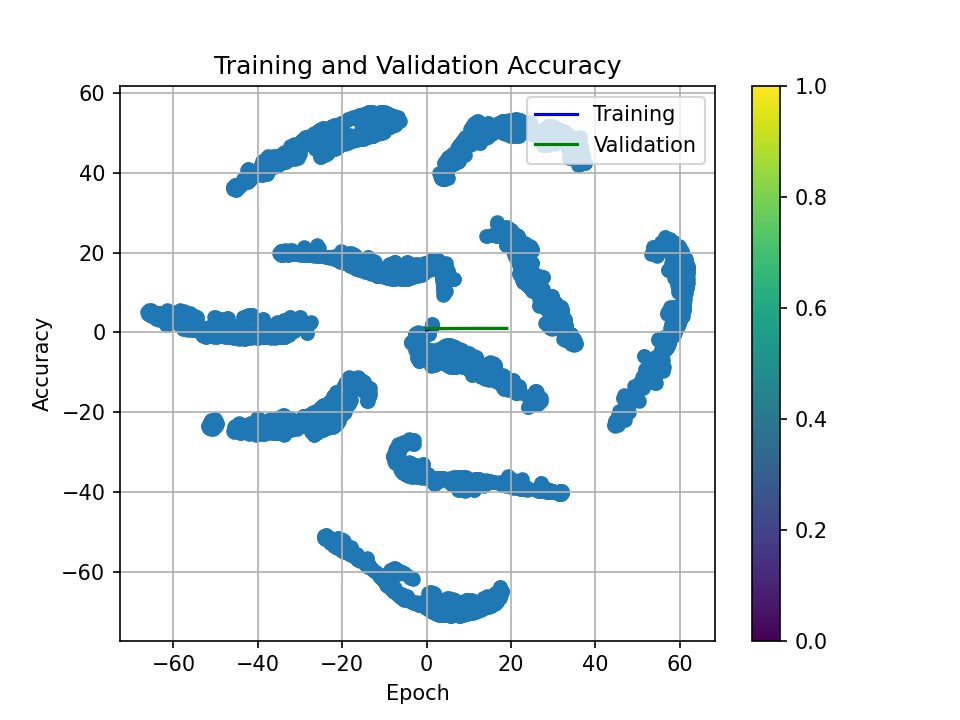
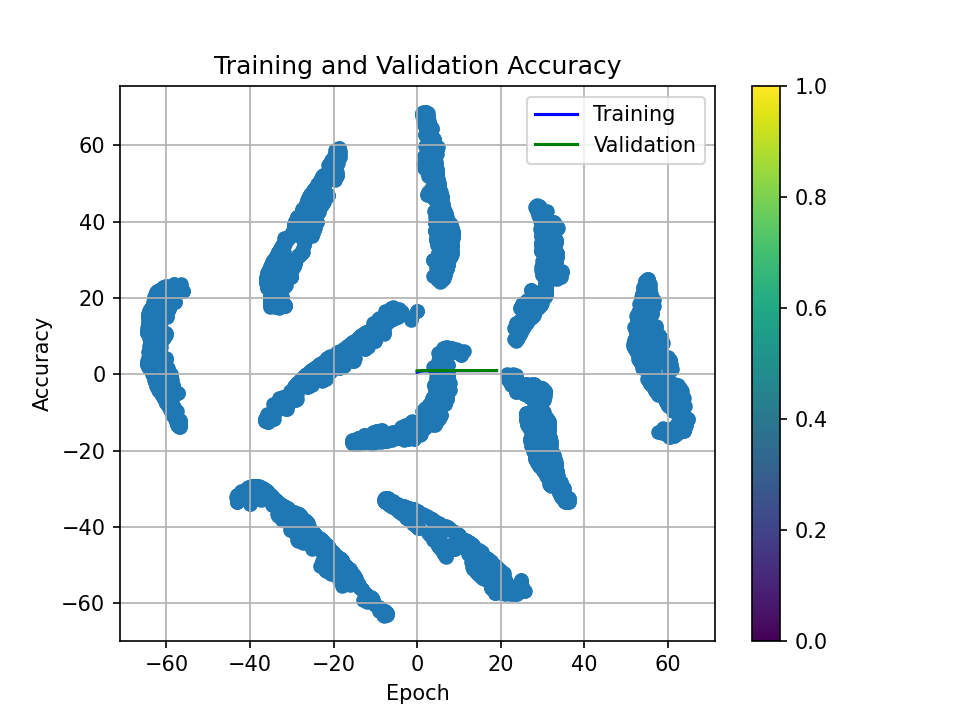
Determining pseudo_labels, cluster_to_class after training with embedding clissifier on seedset.

diff --git a/app/src/helpers/clustering.py b/app/src/helpers/clustering.py
@@ -2,13 +2,14 @@ import numpy as np
 import matplotlib.pyplot as plt
 
 from sklearn.cluster import KMeans
+from sklearn.linear_model import LogisticRegression
 from sklearn.manifold import TSNE
-
+from typing import Tuple, Dict
 
 def get_kmeans_pseudo_labels(
     embeddings: np.ndarray,
     n_clusters:int = 10,
-) -> np.ndarray:
+) -> Tuple[np.ndarray, KMeans]:
     """
     Applies KMeans algorith to the embeddings to get the cluster-labels.
             Args:
@@ -19,13 +20,47 @@ def get_kmeans_pseudo_labels(
             Returns:
                 pseudo-labels:
                     Cluster labels array.
+                kmeans:
+                    KMEAN adjusted model with cluster_centers attributes
     """
     kmeans = KMeans(
         n_clusters=n_clusters,
         random_state=42,
         n_init=10
         )
-    return kmeans.fit_predict(embeddings)
+    pseudo_labels = kmeans.fit_predict(embeddings)
+    return pseudo_labels, kmeans
+
+
+def get_cluster_class_from_logistic_regression(
+    seed_embeddings:np.ndarray,
+    seed_labels:np.ndarray,
+    cluster_centers:np.ndarray,
+) -> np.ndarray:
+    """
+    Assigning to each center cluster to a class using the LogisticRegresion trained over a seedset.
+        1. Train embedding classifier on seed set
+        2. Predict class for each cluster center
+        
+        Args:
+            seed_embeddings:
+                Embeddings matrix of seedset
+            seed_labels:
+                seed true labels from seedset
+            cluster_centers:
+                Matrix of cluster centers
+        Returns:
+            cluster_classes:
+                array with predicted class for cluster_center
+    """
+    clf = LogisticRegression(
+        max_iter=1000, 
+        multi_class='multinomial',
+        solver='lbfgs'
+        )
+    clf.fit(seed_embeddings, seed_labels)
+
+    return clf.predict(cluster_centers)
 
     
 def get_sample_visualization(
@@ -36,6 +71,17 @@ def get_sample_visualization(
 ):
     """
     Visualization of a 2d-embeddings with TSNE, coloured by label. 
+            Args:
+                embeddings:
+                    Feature matrix
+                labels:
+                    label array
+                n_clusters:
+                    number of clusters
+                sample_size:
+                    sample size
+            Returns:
+                a saved figure in `app/output/kmeans_labels_visualize.png`
     """
     
     if embeddings.shape[0] > sample_size:
@@ -91,9 +137,8 @@ def get_kmeans_labels_and_visualize(
             Returns:
                 pseudo-labels:
                     Cluster labels array.
-                    
     """
-    pseudo_labels = get_kmeans_pseudo_labels(
+    pseudo_labels, _ = get_kmeans_pseudo_labels(
         embeddings,
         n_clusters,
     )
@@ -106,3 +151,55 @@ def get_kmeans_labels_and_visualize(
         )
     return pseudo_labels
 
+
+def assign_initial_labels_from_logistic_regression(
+    train_embeddings:np.ndarray,
+    seed_embeddings:np.ndarray,
+    seed_labels:int,
+    n_clusters:int = 10
+    ) -> Tuple[np.ndarray, Dict[int, int]]:
+    """
+    Cluster training embeddings and assign each cluster to a digit class
+    using a classifier trained on seed embeddings.
+            Args:
+                train_embeddings:
+                    Embeddings matrix over trainset
+                seed_embeddings:
+                    Embeddings matrix over seedset
+                seed_labels:
+                    True labels over seedset
+                n_clusters:
+                    Number or clusters
+            Returns:
+                pseudo_labels:
+                    Arry with pseudo-labels
+                cluster_to_class:
+                    Dictionary that maps index-cluster over predicted class from cls
+    """
+    cluster_labels, kmeans = get_kmeans_pseudo_labels(
+            train_embeddings,
+            n_clusters,
+        )
+    cluster_centers = kmeans.cluster_centers_
+
+    cluster_classes = get_cluster_class_from_logistic_regression(
+        seed_embeddings,
+        seed_labels, # pyright: ignore[reportArgumentType]
+        cluster_centers,
+    )
+    cluster_to_class = { i: 
+        int(cluster_classes[i]) 
+        for i in range(n_clusters)
+    }
+    
+    pseudo_labels = np.array(
+        [
+            cluster_to_class[cl]
+            for cl in cluster_labels
+        ]
+    )
+    print("Train embeddings shape:", train_embeddings.shape) 
+    print("Seed embeddings shape:", seed_embeddings.shape)  
+    print("Pseudo labels shape:", pseudo_labels.shape)   
+
+    return pseudo_labels, cluster_to_class

diff --git a/app/src/pipeline.py b/app/src/pipeline.py
@@ -4,7 +4,7 @@ from constants import (
     SEED_LABEL,
     TRAIN_IMAGES,
 )
-from helpers.clustering import get_kmeans_labels_and_visualize
+from helpers.clustering import get_kmeans_labels_and_visualize, assign_initial_labels_from_logistic_regression
 from helpers.embeddings import generation, projection_2d
 from helpers.model import cnn_model
 
@@ -28,4 +28,12 @@ embeddings_2d = projection_2d(
 pseudo_labels = get_kmeans_labels_and_visualize(
     embeddings_2d, 
     n_clusters=10,
+    )
+
+
+pseudo_labels, cluster_to_class = assign_initial_labels_from_logistic_regression(
+    train_embeddings, 
+    seed_embeddings, 
+    seed_labels = SEED_LABEL, # pyright: ignore[reportArgumentType]
+    n_clusters=10
     )
